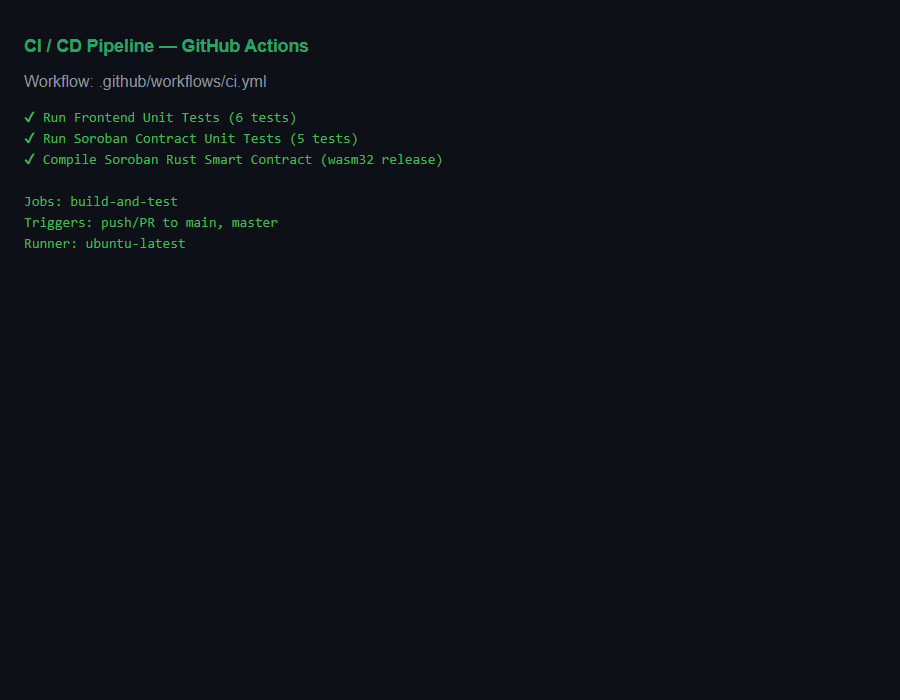
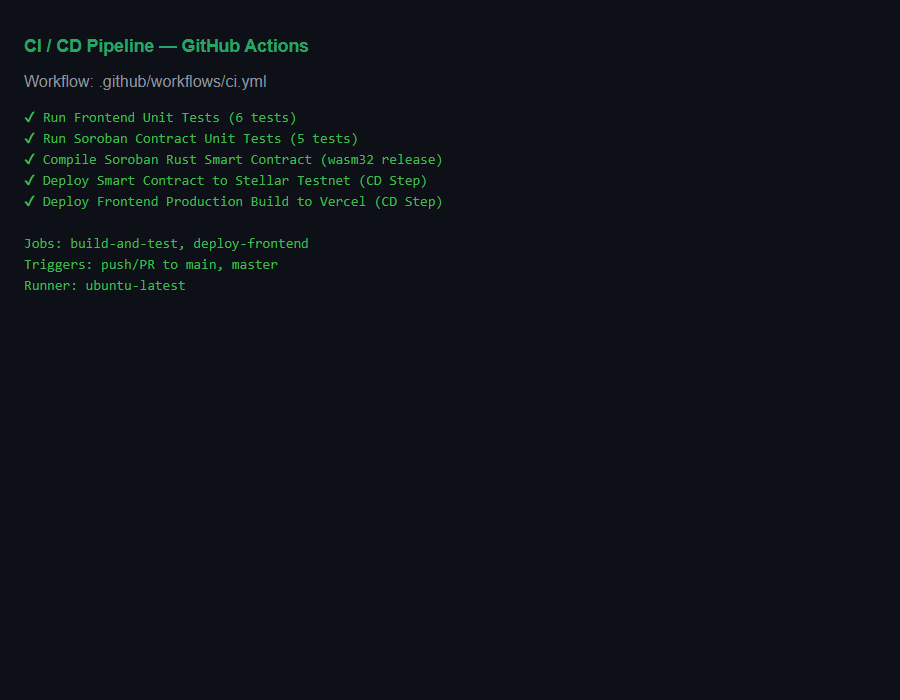
ci: add explicit CD deployment steps for Soroban smart contract and Vercel frontend

Changed region(s): [[0.0311, 0.24, 0.4978, 0.42]]

diff --git a/screens/tests-preview.html b/screens/tests-preview.html
@@ -3,16 +3,16 @@
     h1{font-family:Inter,sans-serif;color:#27a566;font-size:1.1rem}
     pre{white-space:pre-wrap;line-height:1.5;font-size:14px}
     .ok{color:#3fb950}.meta{color:#8b949e;font-family:Inter,sans-serif}
-  </style></head><body><h1>Frontend &amp; Contract Test Output</h1><p class="meta">npm test — 2026-07-30T08:34:40.398Z</p><pre>
+  </style></head><body><h1>Frontend &amp; Contract Test Output</h1><p class="meta">npm test — 2026-08-03T13:45:04.237Z</p><pre>
 > rec-marketplace@0.1.0 test
 > node --test test/*.test.js
 
-✔ formatXlmBalance formats native XLM correctly (1.325ms)
-✔ categorizeError correctly sorts errors into 3 categories (0.2531ms)
-✔ validatePaymentInput validates Stellar public keys and amounts (0.2416ms)
-✔ recSourceForId maps lot ids to Soroban symbol sources (0.3096ms)
-✔ defaultPriceStroops returns stroop prices per lot (1.2749ms)
-✔ formatContractEvent renders Soroban RPC event payloads (0.5351ms)
+✔ formatXlmBalance formats native XLM correctly (0.856ms)
+✔ categorizeError correctly sorts errors into 3 categories (0.1471ms)
+✔ validatePaymentInput validates Stellar public keys and amounts (0.1508ms)
+✔ recSourceForId maps lot ids to Soroban symbol sources (0.1493ms)
+✔ defaultPriceStroops returns stroop prices per lot (0.8583ms)
+✔ formatContractEvent renders Soroban RPC event payloads (0.2816ms)
 ℹ tests 6
 ℹ suites 0
 ℹ pass 6
@@ -20,5 +20,5 @@
 ℹ cancelled 0
 ℹ skipped 0
 ℹ todo 0
-ℹ duration_ms 156.4992
+ℹ duration_ms 90.5116
 </pre></body></html>

diff --git a/screens/ci-preview.html b/screens/ci-preview.html
@@ -8,7 +8,9 @@
     <pre class="ok">✔ Run Frontend Unit Tests (6 tests)
 ✔ Run Soroban Contract Unit Tests (5 tests)
 ✔ Compile Soroban Rust Smart Contract (wasm32 release)
+✔ Deploy Smart Contract to Stellar Testnet (CD Step)
+✔ Deploy Frontend Production Build to Vercel (CD Step)
 
-Jobs: build-and-test
+Jobs: build-and-test, deploy-frontend
 Triggers: push/PR to main, master
 Runner: ubuntu-latest</pre></body></html>
